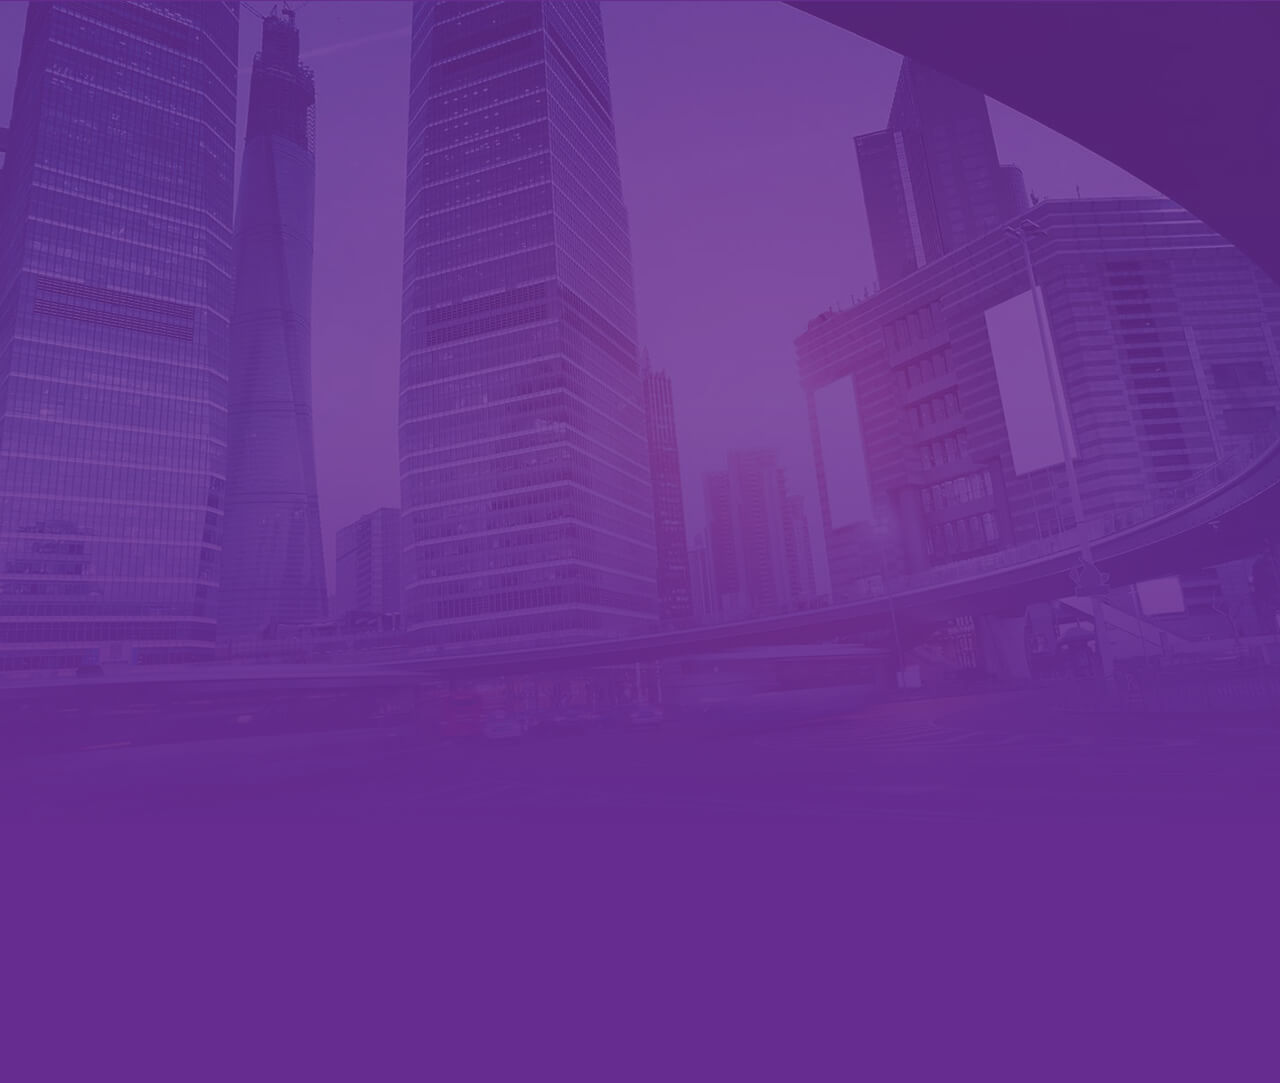
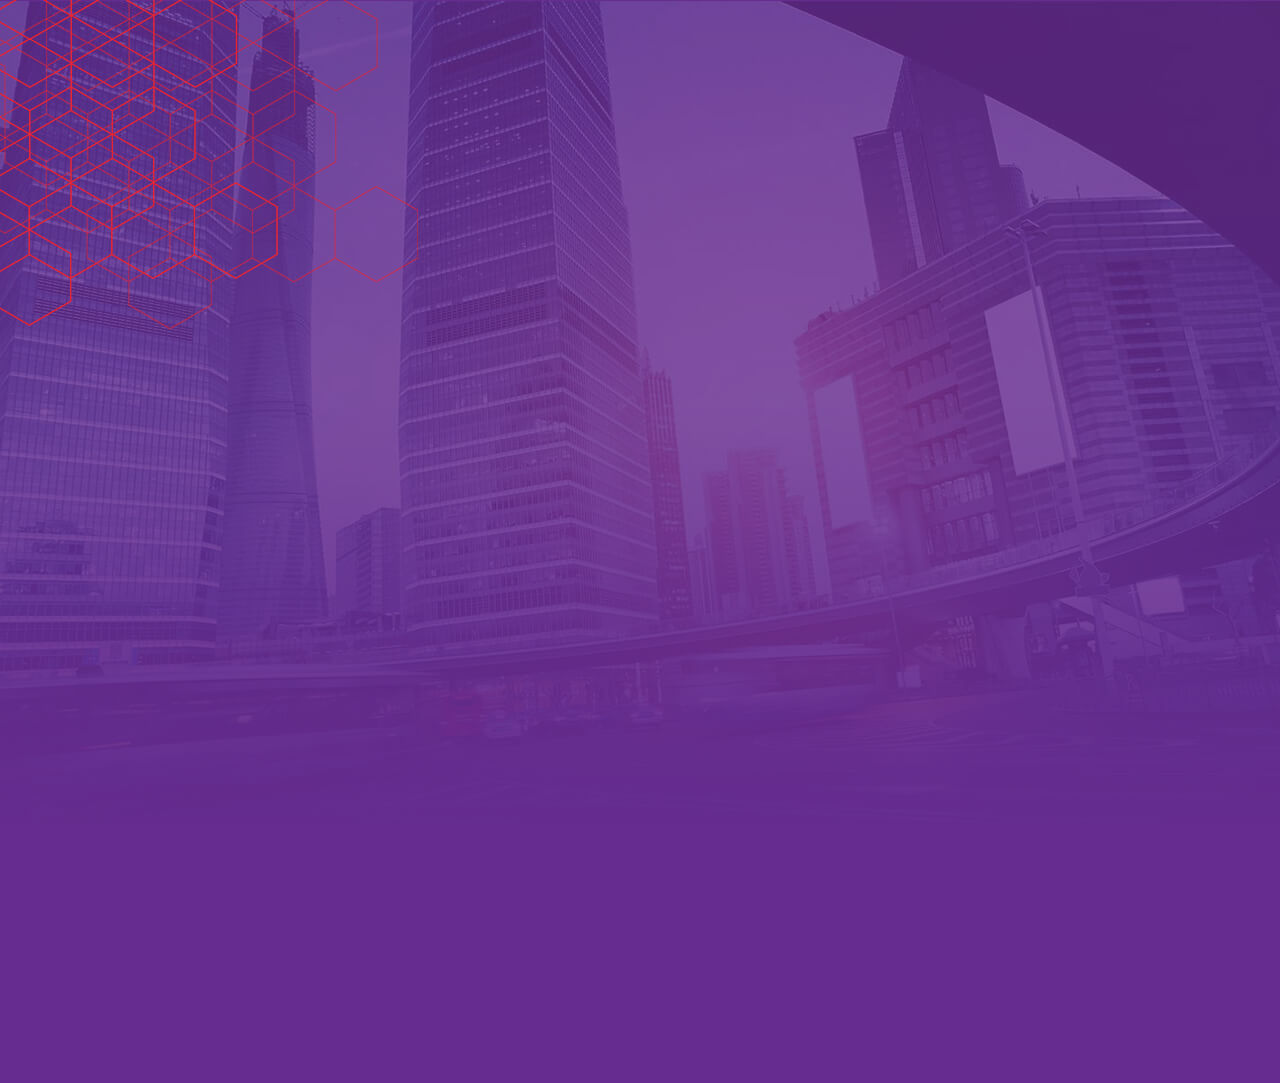
final

diff --git a/css/custom-styles.css b/css/custom-styles.css
@@ -358,8 +358,7 @@ footer .social-links li a i {
 .about-ccn {
     padding-top: 7.4%;
     padding-bottom: 6.25%;
-    background: url('../images/background-1.jpg') no-repeat right top;
-    background-size: cover;
+    background: url('../images/background-1.png') no-repeat right -100px, linear-gradient(to right, #ffffff 10%, #f1f3f8 90%);
 }
 .section-info h2 {
     margin-top: -10px;
@@ -792,11 +791,15 @@ footer .social-links li a i {
 .about-ccn h1 {
     margin: 0 0 10px 0;
 }
+.inner-page .header-info {
+    margin-top: 10px;
+    font-size: 1.176470588235294em;
+}
 
 /* jury */
 
 .jury {
-    background: #eeeeee url('../images/background-jury.png') no-repeat right top;
+    background: #eeeeee url('../images/background-1.png') no-repeat right -100px;
     padding-bottom: 7.5%;
 }
 
@@ -912,6 +915,7 @@ footer .social-links li a i {
     font-weight: 300;
     text-transform: lowercase;
     line-height: 1;
+    font-style: normal;
 }
 .universities-list {
     display: flex;
@@ -957,6 +961,10 @@ footer .social-links li a i {
     font-weight: 500;
     margin: 15px 0;
 }
+.universities-inner .btn-round {
+    font-size: 20px;
+    padding: 1.2em 1.5em;
+}
 
 
 /**********************************************************************************************************************
@@ -970,6 +978,9 @@ footer .social-links li a i {
     }
     .header-info {
         width: 260px;
+    }
+    .inner-page .header-info {
+        width: 280px;
     }
     nav ul {
         padding: 0;
@@ -1089,6 +1100,12 @@ footer .social-links li a i {
         font-size: 1.5em;
         color: #f8a94e;
     }
+    .inner-page .header-info {
+        width: 100%;
+        font-size: 1.25em;
+        margin-top: 0;
+        bottom: 40px;
+    }
     .sign-block {
         display: none;
     }
@@ -1105,6 +1122,9 @@ footer .social-links li a i {
 
     .about-ccn {
         background: #ffffff;
+    }
+    .inner-page .about-ccn {
+        background: #eeeeee url('../images/background-1.png') no-repeat 120% -275px;
     }
     .ccn-news {
         display: none;
@@ -1285,10 +1305,25 @@ footer .social-links li a i {
         max-width: 350px;
     }
     .jury-details {
-        margin-bottom: 30px;
+        margin-bottom: 25px;
+        font-size: 0.94em;
+        height: 55px;
     }
     .universities-list li {
         width: 100%;
+    }
+    .jury-name {
+        font-size: 1.13em;
+    }
+    .jury-decor:before, .jury-decor:after {
+        top: -23px;
+    }
+    .jury-text {
+        font-size: 1.06em;
+        float: left;
+    }
+    .inner-page .about-ccn {
+        background: #eeeeee url('../images/background-1.png') no-repeat 200px -275px;
     }
 
 }
@@ -1334,6 +1369,17 @@ footer .social-links li a i {
     .inner-page h1 span {
         display: inline;
     }
+    .jury-name , .jury-details {
+        padding-left: 10px;
+        padding-right: 10px;
+    }
+    .inner-page .about-ccn {
+        background: #eeeeee url('../images/background-1.png') no-repeat 150px -275px;
+    }
+    .universities-inner .btn-round {
+        padding: 0.7em 1.5em;
+        line-height: 1.2;
+    }
 
 }
 
@@ -1344,6 +1390,9 @@ footer .social-links li a i {
     }
     .sign-up {
         margin-left: 15px;
+    }
+    .inner-page .header-info {
+        left: 3%;
     }
 
 }

diff --git a/about-ccn.html b/about-ccn.html
@@ -28,8 +28,7 @@
             </div>
 
             <div class="header-info">
-                <span>CCN CONTEST</span>
-                Конкурс от ведущих вузов Китая для талантливых выпускников российских школ
+                Всероссийский конкурс CCN<br> Ваш билет в большее будущее
             </div>
 
             <div class="sign-block">

diff --git a/jury.html b/jury.html
@@ -28,8 +28,7 @@
             </div>
 
             <div class="header-info">
-                <span>CCN CONTEST</span>
-                Конкурс от ведущих вузов Китая для талантливых выпускников российских школ
+                Всероссийский конкурс CCN<br> Ваш билет в большее будущее
             </div>
 
             <div class="sign-block">
